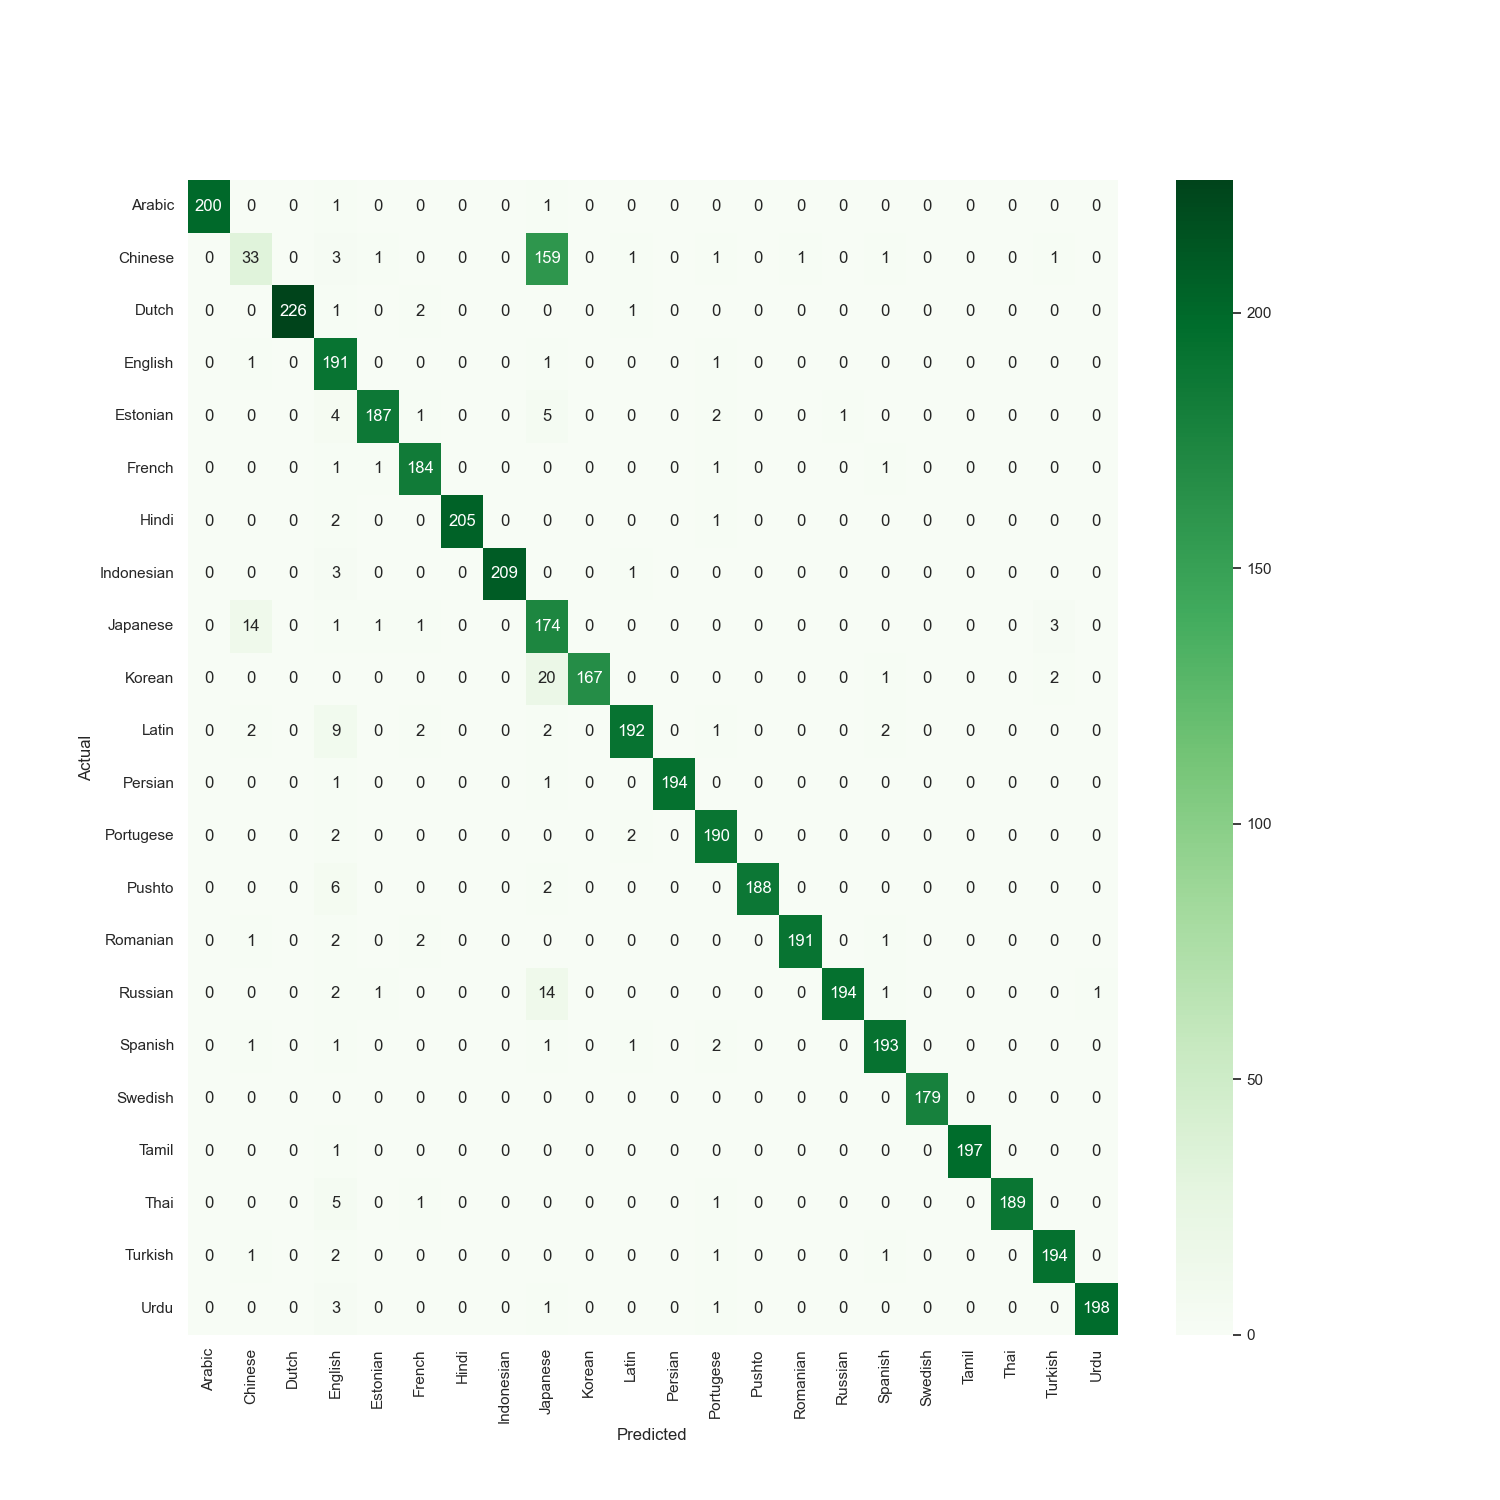
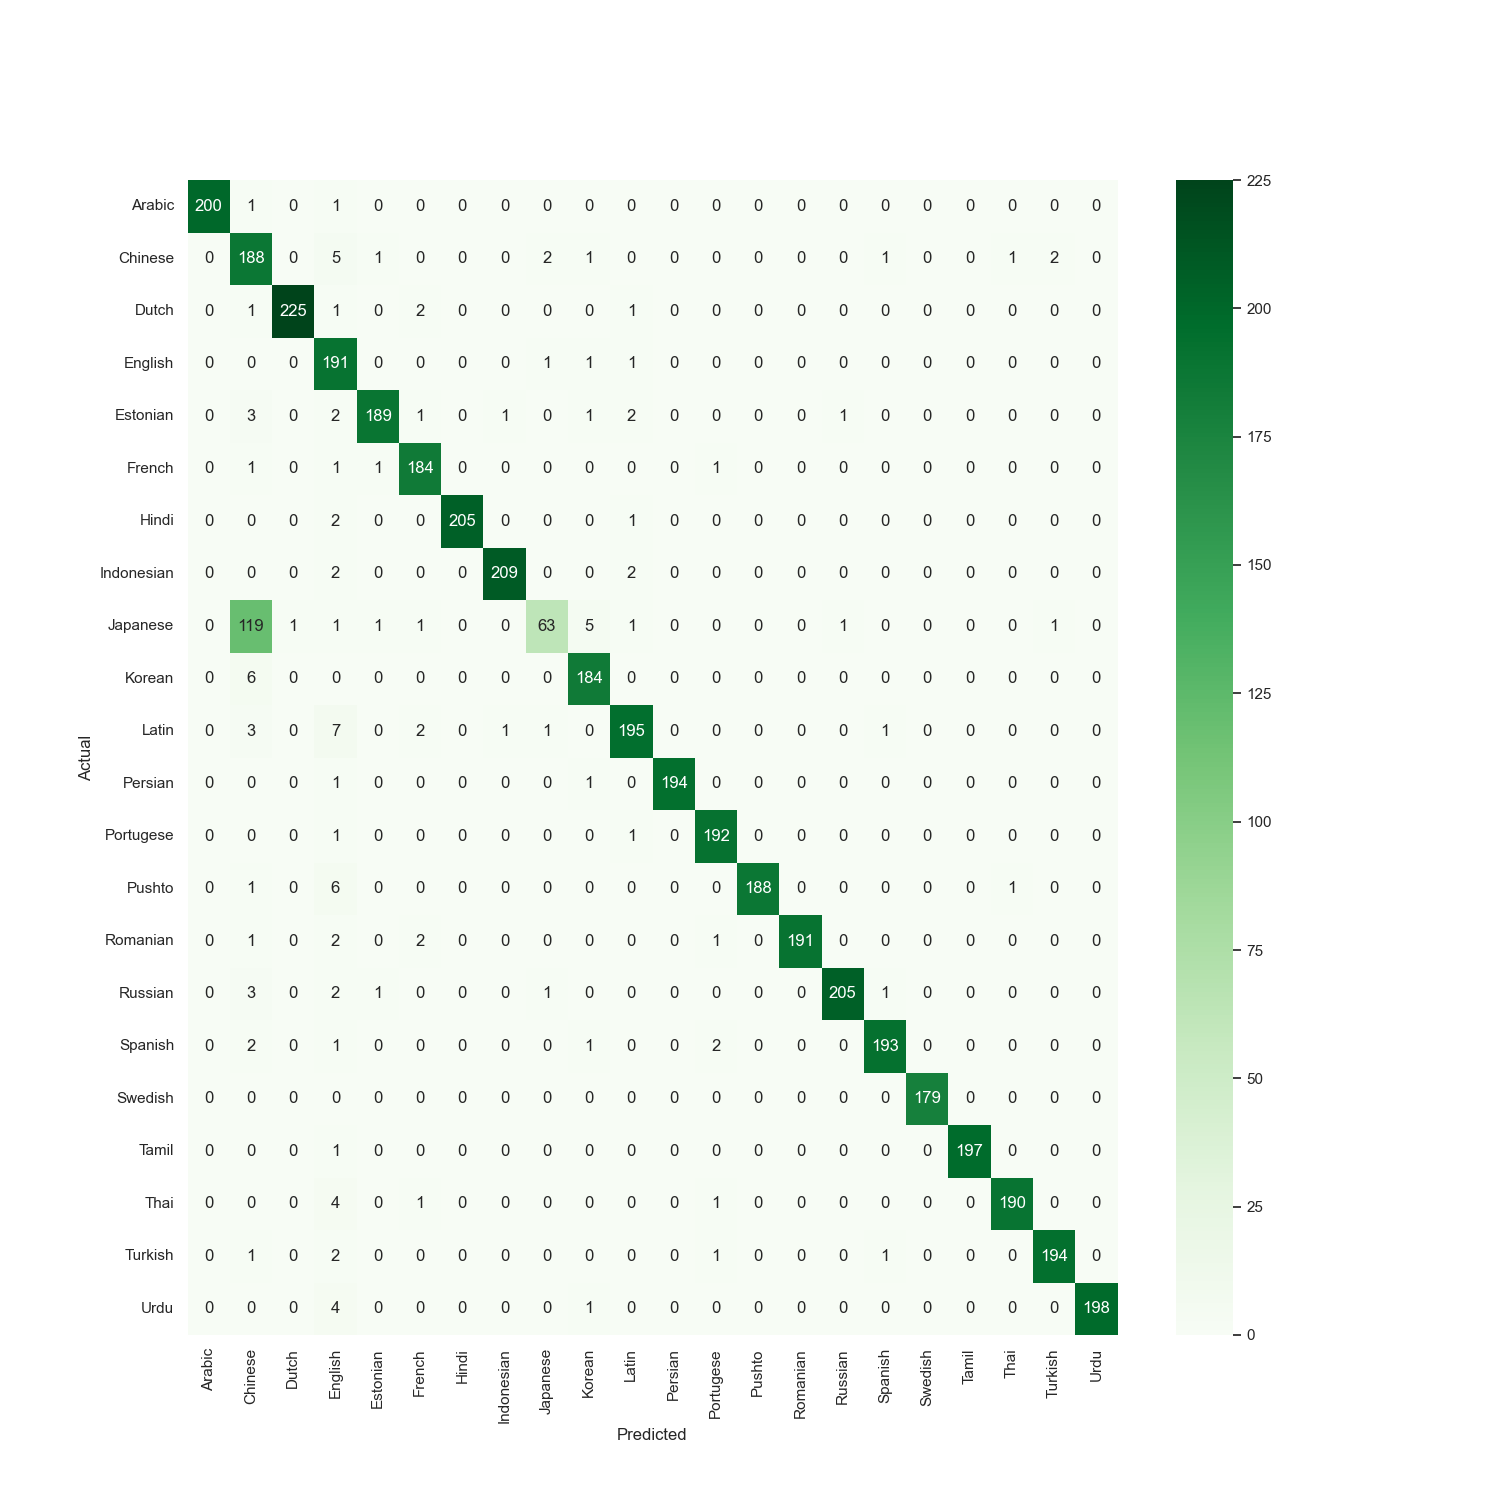
final version

diff --git a/source/langdetect.py b/source/langdetect.py
@@ -48,10 +48,10 @@ if __name__ == "__main__":
 
 
     experiments = [
-        {"remove_symbols_and_numbers": False, "tokenization": False, "stemming": False, "split_sentences": False, "model" : "NaiveBayes"},
-        {"remove_symbols_and_numbers": False, "tokenization": False, "stemming": False, "split_sentences": False, "model": "SVC"},
-        {"remove_symbols_and_numbers": False, "tokenization": False, "stemming": False, "split_sentences": False, "model": "DecisionTree"},
-        {"remove_symbols_and_numbers": False, "tokenization": False, "stemming": False, "split_sentences": False, "model": "RandomForest"},
+        {"remove_symbols_and_numbers": False, "tokenization": True, "stemming": False, "split_sentences": False, "model" : "NaiveBayes"},
+        {"remove_symbols_and_numbers": False, "tokenization": True, "stemming": False, "split_sentences": False, "model": "SVC"},
+        {"remove_symbols_and_numbers": False, "tokenization": True, "stemming": False, "split_sentences": False, "model": "DecisionTree"},
+        {"remove_symbols_and_numbers": False, "tokenization": True, "stemming": False, "split_sentences": False, "model": "RandomForest"},
 
                    ]
 

diff --git a/source/utils.py b/source/utils.py
@@ -141,7 +141,7 @@ def plot_Confusion_Matrix(y_test, y_predict, experiment, color="Blues"):
     fig = sn.heatmap(df_cm, cmap=color, annot=True, annot_kws={"size": 12}, fmt='g')  # font size
     figure = fig.get_figure()
     figure.savefig(OUTPUT_ROUTE+str(experiment)+'ConfMat.png')
-    plt.show()
+    # plt.show()
     plt.clf()
 
 def plotPCA(x_train, x_test,y_test, langs, experiment):
@@ -194,7 +194,7 @@ def plotPCA(x_train, x_test,y_test, langs, experiment):
         plt.scatter(pca_x,pca_y, label=lang, c=color_dict[lang])
     plt.legend(loc="upper right")
     plt.savefig(OUTPUT_ROUTE+str(experiment)+'PCA.png')
-    plt.show()
+    # plt.show()
     plt.clf()
     return str(pca.explained_variance_ratio_)
 
